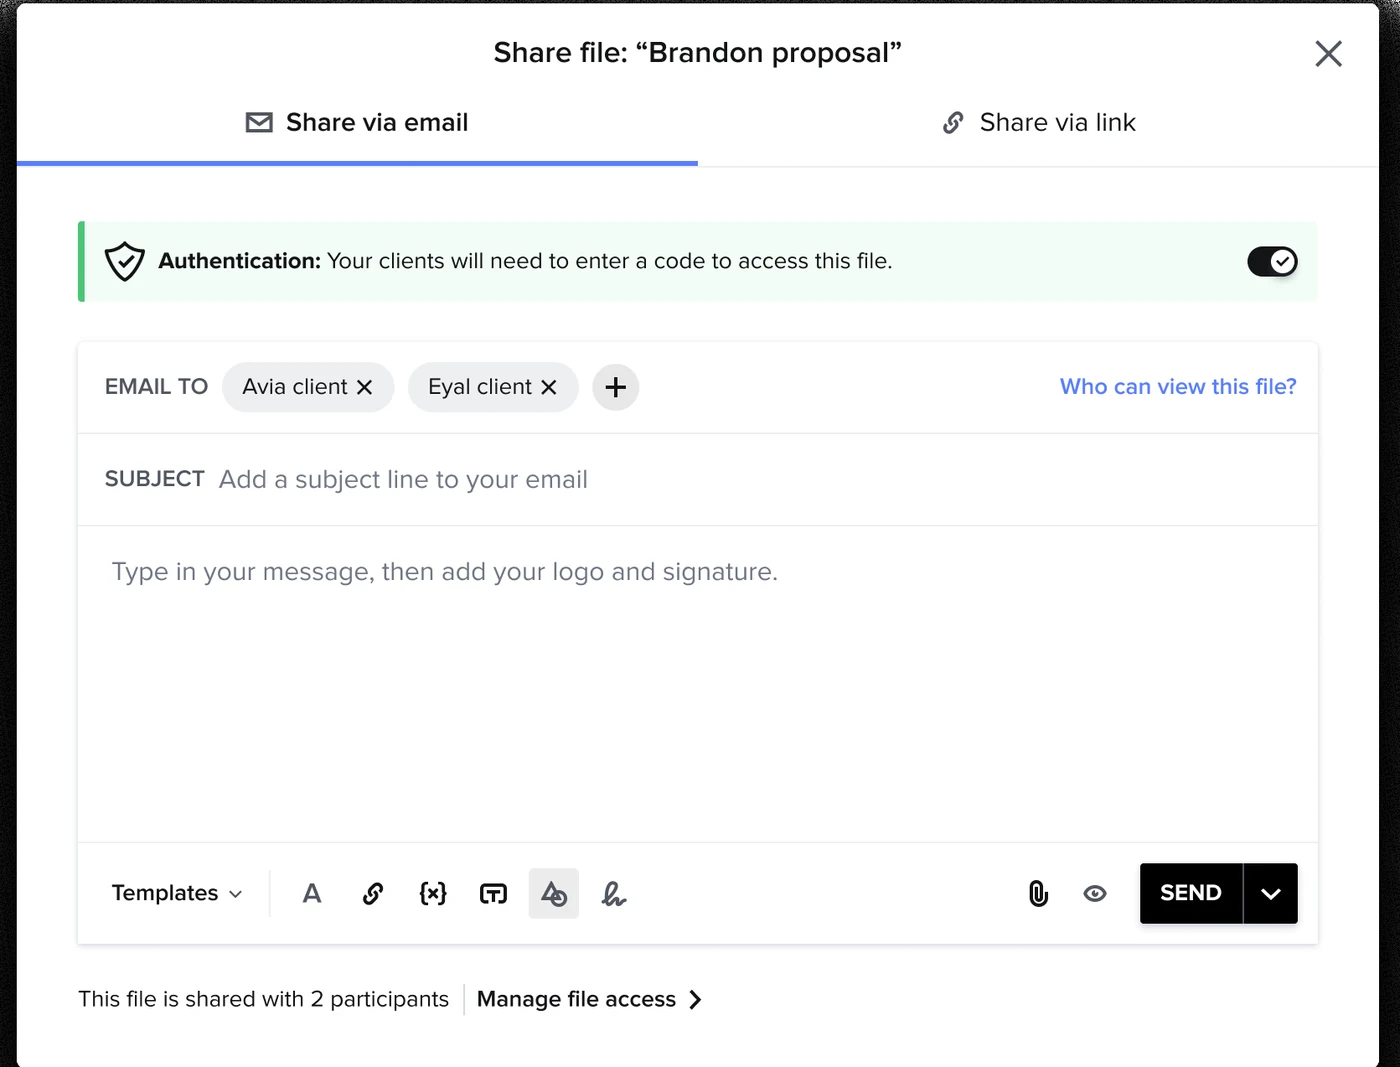
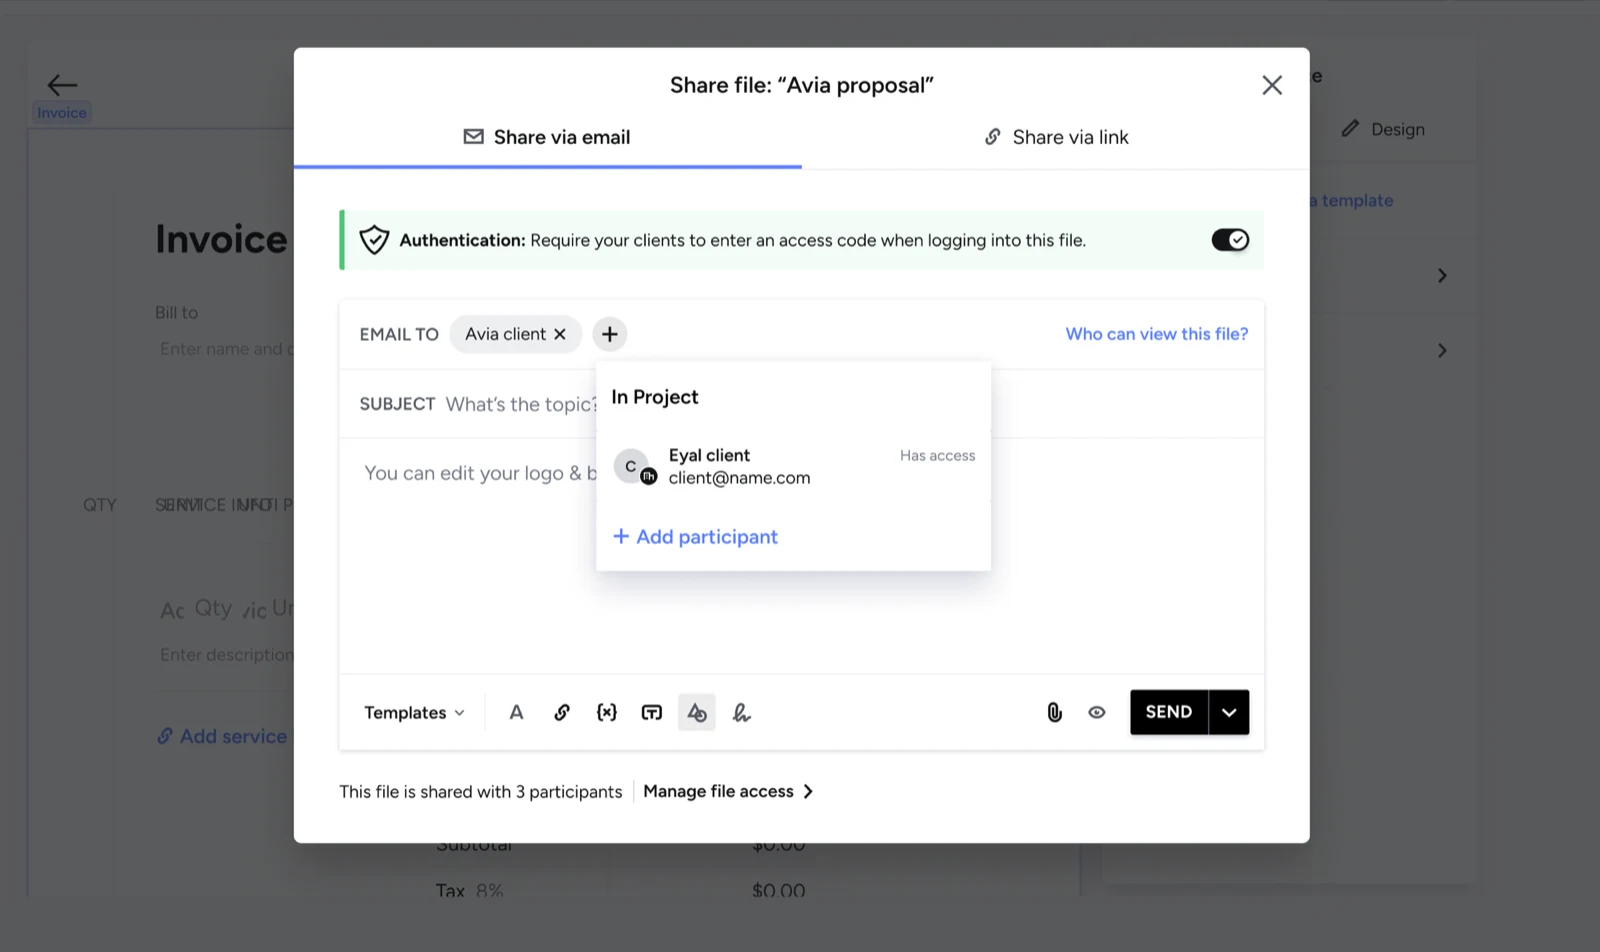
Add What Shipped section with animated flows, design label bars, new share screen
- New WHAT SHIPPED section: crossfading feed-recipient and file-access
  state pairs, zoomable team-access modal, and two phone-flow walkthroughs
  (feed message and file share) in the FTE animation style
- Replace Interface share screen with the participant-dropdown state
- Add OLD DESIGN / NEW DESIGN / DIRECTION 1-2 label bars to figures
- Remove em-dashes from copy

diff --git a/Case - Selective Communication.dc.html b/Case - Selective Communication.dc.html
@@ -43,6 +43,9 @@
     .fte-track{animation:fte-slide 10.5s infinite}
     .fte-cursor{animation:fte-cursor 10.5s infinite}
     .fte-press{animation:fte-press 10.5s infinite}
+    .xfade .xf-b{animation:xfade 9s infinite}
+    .ship-track-5{animation:ship-slide5 16s infinite}
+    .ship-track-4{animation:ship-slide4 13s infinite}
   }
   @keyframes reveal{from{opacity:0;transform:translateY(8px)}to{opacity:1;transform:translateY(0)}}
   @keyframes lbfade{from{opacity:0}to{opacity:1}}
@@ -85,6 +88,39 @@
     95.238%{opacity:.26}
     98.1%,100%{opacity:0}
   }
+
+  /* Old/new design label bars on figures */
+  .figbar{display:block;padding:11px 16px;font:500 11px/1.5 'IBM Plex Mono',monospace;letter-spacing:.08em;background:#121210;color:#fbfbf9}
+  .figbar-old{background:#e9e7e0;color:#5f5f58;border-bottom:1px solid #14141216}
+
+  /* What shipped: crossfading state pairs + phone flow walkthroughs */
+  .xfade{position:relative;overflow:hidden;border:1px solid #14141216;border-radius:8px}
+  .xfade picture,.xfade img{display:block;width:100%;height:auto}
+  .xfade .xf-b{position:absolute;inset:0;opacity:0}
+  .ship-stage{background:#e9e7e0;border:1px solid #14141216;border-radius:10px;padding:clamp(22px,4.5vw,48px) clamp(16px,3vw,28px);display:flex;justify-content:center;align-items:center;gap:clamp(20px,5vw,52px);flex-wrap:wrap}
+  .ship-phone{position:relative;width:min(100%,248px);aspect-ratio:750/1624;border-radius:11px;overflow:hidden;background:#fff;box-shadow:0 20px 46px #1414121f,0 2px 6px #14141214}
+  .ship-track{display:flex;height:100%;will-change:transform}
+  .ship-track img{height:100%;display:block;object-fit:cover}
+  .ship-track-5{width:600%}
+  .ship-track-5 img{width:16.6667%}
+  .ship-track-4{width:500%}
+  .ship-track-4 img{width:20%}
+  @keyframes xfade{0%,42%{opacity:0}50%,92%{opacity:1}100%{opacity:0}}
+  @keyframes ship-slide5{
+    0%,16.5%{transform:translateX(0);animation-timing-function:cubic-bezier(.72,0,.18,1)}
+    20%,36.5%{transform:translateX(-16.6667%);animation-timing-function:cubic-bezier(.72,0,.18,1)}
+    40%,56.5%{transform:translateX(-33.3333%);animation-timing-function:cubic-bezier(.72,0,.18,1)}
+    60%,76.5%{transform:translateX(-50%);animation-timing-function:cubic-bezier(.72,0,.18,1)}
+    80%,96.5%{transform:translateX(-66.6667%);animation-timing-function:cubic-bezier(.72,0,.18,1)}
+    100%{transform:translateX(-83.3333%)}
+  }
+  @keyframes ship-slide4{
+    0%,21%{transform:translateX(0);animation-timing-function:cubic-bezier(.72,0,.18,1)}
+    25%,46%{transform:translateX(-20%);animation-timing-function:cubic-bezier(.72,0,.18,1)}
+    50%,71%{transform:translateX(-40%);animation-timing-function:cubic-bezier(.72,0,.18,1)}
+    75%,96%{transform:translateX(-60%);animation-timing-function:cubic-bezier(.72,0,.18,1)}
+    100%{transform:translateX(-80%)}
+  }
 </style>
 </helmet>
 <div>
@@ -123,7 +159,7 @@
         <span class="fte-cursor" aria-hidden="true"><svg viewBox="0 0 24 24" focusable="false"><path d="M3 2 L3 20 L8 15.4 L11.5 22 L14.6 20.4 L11.1 14 L17.6 14 Z" fill="#fbfbf9" stroke="#121210" stroke-width="1.5" stroke-linejoin="round"></path></svg></span>
       </div>
     </div>
-    <p style="font:400 12px/1.5 'IBM Plex Mono',monospace;color:#717684;margin:12px 2px 0">The first-time experience I designed to introduce the feature: three steps, each one naming a thing you can now do. <span style="color:#c8c6bd">— click any image below to enlarge</span></p>
+    <p style="font:400 12px/1.5 'IBM Plex Mono',monospace;color:#717684;margin:12px 2px 0">The first-time experience I designed to introduce the feature: three steps, each one naming a thing you can now do. <span style="color:#c8c6bd">(click any image below to enlarge)</span></p>
   </div>
 
   <section style="max-width:680px;margin:0 auto;padding:0 28px">
@@ -143,9 +179,9 @@
         <li>No control over who can access or view a file.</li>
         <li>Communication that felt inefficient and unprofessional to clients.</li>
       </ul>
-      <div class="zoom" style="width:100%;overflow:hidden;border:1px solid #14141216;border-radius:8px;margin-top:36px"><picture style="width:100%;display:block"><source srcset="assets/selective-communication/reply-recipients-before.webp" type="image/webp"><img src="assets/selective-communication/reply-recipients-before.jpg" loading="lazy" alt="Before: replying in the project feed, with recipients locked to whoever was already in the thread and no way to change them" style="width:100%;display:block"></picture></div>
+      <div class="zoom" style="width:100%;overflow:hidden;border:1px solid #14141216;border-radius:8px;margin-top:36px"><span class="figbar figbar-old">OLD DESIGN</span><picture style="width:100%;display:block"><source srcset="assets/selective-communication/reply-recipients-before.webp" type="image/webp"><img src="assets/selective-communication/reply-recipients-before.jpg" loading="lazy" alt="Before: replying in the project feed, with recipients locked to whoever was already in the thread and no way to change them" style="width:100%;display:block"></picture></div>
       <p style="font:400 12px/1.5 'IBM Plex Mono',monospace;color:#717684;margin:12px 2px 30px">BEFORE, REPLY: a feed reply always went to everyone already in the thread, with no way to change the recipients.</p>
-      <div class="zoom" style="width:100%;overflow:hidden;border:1px solid #14141216;border-radius:8px"><picture style="width:100%;display:block"><source srcset="assets/selective-communication/share-modal-before.webp" type="image/webp"><img src="assets/selective-communication/share-modal-before.jpg" loading="lazy" alt="Before: the old share modal, a flat email-to list with no per-recipient visibility control" style="width:100%;display:block"></picture></div>
+      <div class="zoom" style="width:100%;overflow:hidden;border:1px solid #14141216;border-radius:8px"><span class="figbar figbar-old">OLD DESIGN</span><picture style="width:100%;display:block"><source srcset="assets/selective-communication/share-modal-before.webp" type="image/webp"><img src="assets/selective-communication/share-modal-before.jpg" loading="lazy" alt="Before: the old share modal, a flat email-to list with no per-recipient visibility control" style="width:100%;display:block"></picture></div>
       <p style="font:400 12px/1.5 'IBM Plex Mono',monospace;color:#717684;margin:12px 2px 0">BEFORE, SHARE: the old share modal was a flat email-to list, with no way to manage visibility per recipient.</p>
     </div>
 
@@ -156,7 +192,7 @@
 
     <div style="padding:52px 0;border-top:1px solid #14141212">
       <p style="font-family:'Bricolage Grotesque',sans-serif;font-weight:500;font-size:clamp(23px,3.2vw,31px);line-height:1.28;letter-spacing:-.015em;color:#1a1a17;margin:0;max-width:26ch">71% wanted selective communication to avoid spamming clients and to protect sensitive information.</p>
-      <p style="font:500 11px/1 'IBM Plex Mono',monospace;letter-spacing:.1em;color:#717684;margin:22px 0 0">— KEY RESEARCH FINDING</p>
+      <p style="font:500 11px/1 'IBM Plex Mono',monospace;letter-spacing:.1em;color:#717684;margin:22px 0 0">KEY RESEARCH FINDING</p>
     </div>
 
     <div style="padding:52px 0;border-top:1px solid #14141212">
@@ -168,9 +204,9 @@
     <div style="padding:52px 0;border-top:1px solid #14141212">
       <p style="font:500 11px/1 'IBM Plex Mono',monospace;letter-spacing:.16em;color:#717684;margin:0 0 22px">CONCEPTS</p>
       <p style="font:400 17px/1.75 'Hanken Grotesk',sans-serif;color:#3a3a34;margin:0 0 28px">“Who sees what” could live in more than one place. I explored two directions before committing.</p>
-      <div class="zoom" style="width:100%;overflow:hidden;border:1px solid #14141216;border-radius:8px"><img src="assets/selective-communication/concept-inline.png" loading="lazy" alt="Concept one: the Share via link screen with authentication and a per-recipient list, each participant toggled individually for full access" style="width:100%;display:block"></div>
+      <div class="zoom" style="width:100%;overflow:hidden;border:1px solid #14141216;border-radius:8px"><span class="figbar figbar-old">DIRECTION 1</span><img src="assets/selective-communication/concept-inline.png" loading="lazy" alt="Concept one: the Share via link screen with authentication and a per-recipient list, each participant toggled individually for full access" style="width:100%;display:block"></div>
       <p style="font:400 12px/1.5 'IBM Plex Mono',monospace;color:#717684;margin:12px 2px 30px">Direction one, permissions inline: authentication and per-recipient access built right into the Share-via-email and Share-via-link screens.</p>
-      <div class="zoom" style="max-width:600px;margin:0 auto;overflow:hidden;border:1px solid #14141216;border-radius:8px"><picture style="width:100%;display:block"><source srcset="assets/selective-communication/concept-modal.webp" type="image/webp"><img src="assets/selective-communication/concept-modal.jpg" loading="lazy" alt="Concept two: a lean Share via link screen paired with a separate Manage file access modal that toggles per-participant access" style="width:100%;display:block"></picture></div>
+      <div class="zoom" style="max-width:600px;margin:0 auto;overflow:hidden;border:1px solid #14141216;border-radius:8px"><span class="figbar figbar-old">DIRECTION 2</span><picture style="width:100%;display:block"><source srcset="assets/selective-communication/concept-modal.webp" type="image/webp"><img src="assets/selective-communication/concept-modal.jpg" loading="lazy" alt="Concept two: a lean Share via link screen paired with a separate Manage file access modal that toggles per-participant access" style="width:100%;display:block"></picture></div>
       <p style="font:400 12px/1.5 'IBM Plex Mono',monospace;color:#717684;margin:12px 2px 28px;text-align:center">Direction two, the one I chose: a dedicated “Manage file access” dialog for per-participant control, kept separate from the send flow.</p>
       <p style="font:400 17px/1.75 'Hanken Grotesk',sans-serif;color:#3a3a34;margin:0">The shipped design kept the best of both: recipients and authentication inline, where the decision gets made, and a separate Manage file access modal for the finer-grained, per-person control.</p>
     </div>
@@ -185,8 +221,51 @@
     <div style="padding:52px 0;border-top:1px solid #14141212">
       <p style="font:500 11px/1 'IBM Plex Mono',monospace;letter-spacing:.16em;color:#717684;margin:0 0 22px">INTERFACE</p>
       <p style="font:400 17px/1.75 'Hanken Grotesk',sans-serif;color:#3a3a34;margin:0 0 28px">The shipped share screen puts every decision in one place: who receives the file, whether they authenticate with a code before opening it, and a direct link to manage per-person access, all before anything sends.</p>
-      <div class="zoom" style="width:100%;overflow:hidden;border:1px solid #14141216;border-radius:8px"><picture style="width:100%;display:block"><source srcset="assets/selective-communication/share-screen.webp" type="image/webp"><img src="assets/selective-communication/share-screen.jpg" loading="lazy" alt="The shipped Share file screen: a Share via email tab with an authentication toggle, per-recipient email chips, a Who can view this file link, and a Manage file access entry" style="width:100%;display:block"></picture></div>
-      <p style="font:400 12px/1.5 'IBM Plex Mono',monospace;color:#717684;margin:12px 2px 0">The shipped Share screen: per-recipient sending, an authentication toggle for sensitive files, “Who can view this file?”, and a Manage file access entry.</p>
+      <div class="zoom" style="width:100%;overflow:hidden;border:1px solid #14141216;border-radius:8px"><span class="figbar">NEW DESIGN: tabs, chips, menu, file permissions</span><picture style="width:100%;display:block"><source srcset="assets/selective-communication/share-screen.webp" type="image/webp"><img src="assets/selective-communication/share-screen.jpg" loading="lazy" alt="The shipped Share file screen: Share via email and Share via link tabs, an authentication toggle, recipient chips with an In Project dropdown showing who already has access, an Add participant action, and a Manage file access entry" style="width:100%;display:block"></picture></div>
+      <p style="font:400 12px/1.5 'IBM Plex Mono',monospace;color:#717684;margin:12px 2px 0">The shipped Share screen: per-recipient sending with a view of who already has access, an authentication toggle for sensitive files, “Who can view this file?”, and a Manage file access entry.</p>
+    </div>
+
+    <div style="padding:52px 0;border-top:1px solid #14141212">
+      <p style="font:500 11px/1 'IBM Plex Mono',monospace;letter-spacing:.16em;color:#717684;margin:0 0 22px">WHAT SHIPPED</p>
+      <p style="font:400 17px/1.75 'Hanken Grotesk',sans-serif;color:#3a3a34;margin:0 0 28px">The release wasn't one screen. It was one mental model applied everywhere: see who, choose who. The feed composer, file sharing, and access management all got the same recipient control, on desktop and on mobile.</p>
+
+      <div class="xfade" style="aspect-ratio:1600/1163" role="img" aria-label="Two states of the feed composer: choosing a recipient from the project participants list, then the message addressed to both clients, each shown as a removable chip.">
+        <picture><source srcset="assets/selective-communication/ship-feed-a.webp" type="image/webp"><img src="assets/selective-communication/ship-feed-a.jpg" loading="lazy" alt="" width="1600" height="1163"></picture>
+        <picture class="xf-b"><source srcset="assets/selective-communication/ship-feed-b.webp" type="image/webp"><img src="assets/selective-communication/ship-feed-b.jpg" loading="lazy" alt="" width="1600" height="1163"></picture>
+      </div>
+      <p style="font:400 12px/1.5 'IBM Plex Mono',monospace;color:#717684;margin:12px 2px 30px">SHIPPED, FEED: every message starts with “Send to”. Pick recipients from the project's participants, or add someone new without leaving the composer.</p>
+
+      <div class="xfade" style="aspect-ratio:1600/960" role="img" aria-label="The Manage file access dialog before and after sharing: first over a draft file with a prompt to publish it, then after sharing, with a confirmation that the file is live in the client portal.">
+        <picture><source srcset="assets/selective-communication/ship-access-before.webp" type="image/webp"><img src="assets/selective-communication/ship-access-before.jpg" loading="lazy" alt="" width="1600" height="960"></picture>
+        <picture class="xf-b"><source srcset="assets/selective-communication/ship-access-after.webp" type="image/webp"><img src="assets/selective-communication/ship-access-after.jpg" loading="lazy" alt="" width="1600" height="960"></picture>
+      </div>
+      <p style="font:400 12px/1.5 'IBM Plex Mono',monospace;color:#717684;margin:12px 2px 30px">SHIPPED, FILE ACCESS: the same dialog before and after publishing. A draft isn't visible to anyone yet; once shared, the file is live in the client portal.</p>
+
+      <div class="zoom" style="width:100%;overflow:hidden;border:1px solid #14141216;border-radius:8px"><picture style="width:100%;display:block"><source srcset="assets/selective-communication/ship-access-team.webp" type="image/webp"><img src="assets/selective-communication/ship-access-team.jpg" loading="lazy" alt="The shipped Manage file access dialog with multiple participants: two clients and five team members, each with their own visibility toggle; owner, super admin, and admin roles locked to always keep access" style="width:100%;display:block"></picture></div>
+      <p style="font:400 12px/1.5 'IBM Plex Mono',monospace;color:#717684;margin:12px 2px 30px">SHIPPED, TEAMS: per-participant visibility, one toggle per person, while owners, admins, and super admins always keep access.</p>
+
+      <div class="ship-stage">
+        <div class="ship-phone" role="img" aria-label="Mobile walkthrough of sending a feed message: the project feed, the empty composer, adding a client from contacts, back to the composer, then choosing exactly which recipients get the email.">
+          <div class="ship-track ship-track-5">
+            <img src="assets/selective-communication/ship-mb-1.webp" alt="" width="750" height="1624" loading="lazy">
+            <img src="assets/selective-communication/ship-mb-2.webp" alt="" width="750" height="1624" loading="lazy">
+            <img src="assets/selective-communication/ship-mb-3.webp" alt="" width="750" height="1624" loading="lazy">
+            <img src="assets/selective-communication/ship-mb-2.webp" alt="" width="750" height="1624" loading="lazy">
+            <img src="assets/selective-communication/ship-mb-4.webp" alt="" width="750" height="1624" loading="lazy">
+            <img src="assets/selective-communication/ship-mb-1.webp" alt="" width="750" height="1624" loading="lazy" aria-hidden="true">
+          </div>
+        </div>
+        <div class="ship-phone" role="img" aria-label="Mobile walkthrough of sharing a file: share options, creating a full-access or view-only link, the published links, and per-participant access toggles.">
+          <div class="ship-track ship-track-4">
+            <img src="assets/selective-communication/ship-ms-1.webp" alt="" width="750" height="1624" loading="lazy">
+            <img src="assets/selective-communication/ship-ms-2.webp" alt="" width="750" height="1624" loading="lazy">
+            <img src="assets/selective-communication/ship-ms-3.webp" alt="" width="750" height="1624" loading="lazy">
+            <img src="assets/selective-communication/ship-ms-4.webp" alt="" width="750" height="1624" loading="lazy">
+            <img src="assets/selective-communication/ship-ms-1.webp" alt="" width="750" height="1624" loading="lazy" aria-hidden="true">
+          </div>
+        </div>
+      </div>
+      <p style="font:400 12px/1.5 'IBM Plex Mono',monospace;color:#717684;margin:12px 2px 0">SHIPPED, MOBILE: the full loop on the phone. Sending a feed message to chosen recipients (left) and sharing a file with per-participant access (right).</p>
     </div>
 
     <div style="padding:52px 0;border-top:1px solid #14141212">
